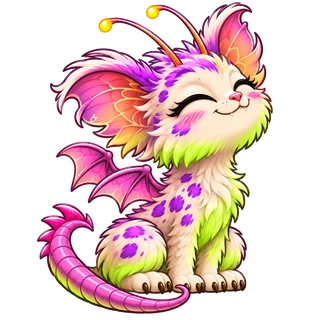
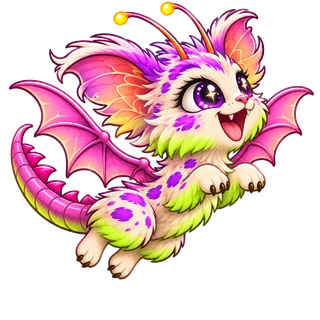
Pet: new happy-2 jump picture
Claude-Session: https://claude.ai/code/session_01PGxfpcX8yQ2dVm6AUd14bJ

diff --git a/index.html b/index.html
@@ -18,7 +18,7 @@
   <link href="https://fonts.googleapis.com/css2?family=Lilita+One&display=swap" rel="stylesheet">
   <meta property="og:image" content="assets/logo/share.jpg">
   <meta name="twitter:card" content="summary_large_image">
-  <link rel="stylesheet" href="css/style.css?v=20261121n">
+  <link rel="stylesheet" href="css/style.css?v=20261121o">
 </head>
 <body>
   <!-- ===== Loading screen (removed when the game has started) ===== -->
@@ -614,44 +614,44 @@
   <div id="tipCard" hidden role="status"></div>
   <div id="tutBubble" hidden role="dialog" aria-label="Guided start"></div>
   <!-- Game code, split by section. Files share one global scope and must load in this order. -->
-  <script src="js/00-i18n.js?v=20261121n"></script>
-  <script src="js/i18n-es.js?v=20261121n"></script>
-  <script src="js/i18n-es-2.js?v=20261121n"></script>
-  <script src="js/i18n-es-3.js?v=20261121n"></script>
-  <script src="js/00-phone.js?v=20261121n"></script>
-  <script src="js/01-core.js?v=20261121n"></script>
-  <script src="js/01-tabs.js?v=20261121n"></script>
-  <script src="js/02-income.js?v=20261121n"></script>
-  <script src="js/03-casino.js?v=20261121n"></script>
-  <script src="js/04-investing.js?v=20261121n"></script>
-  <script src="js/05-settings.js?v=20261121n"></script>
-  <script src="js/06-casino-cards.js?v=20261121n"></script>
-  <script src="js/07-boosters.js?v=20261121n"></script>
-  <script src="js/08-sky-climb.js?v=20261121n"></script>
-  <script src="js/09-special.js?v=20261121n"></script>
-  <script src="js/10-plinko.js?v=20261121n"></script>
-  <script src="js/11-cosmetics.js?v=20261121n"></script>
-  <script src="js/12-logistics.js?v=20261121n"></script>
-  <script src="js/13-live-trading.js?v=20261121n"></script>
-  <script src="js/14-world-map.js?v=20261121n"></script>
-  <script src="js/15-achievements.js?v=20261121n"></script>
-  <script src="js/16-prestige.js?v=20261121n"></script>
-  <script src="js/17-wiki.js?v=20261121n"></script>
-  <script src="js/18-art.js?v=20261121n"></script>
-  <script src="js/19-science.js?v=20261121n"></script>
-  <script src="js/20-tips.js?v=20261121n"></script>
-  <script src="js/21-clock.js?v=20261121n"></script>
-  <script src="js/22-main-menu.js?v=20261121n"></script>
-  <script src="js/23-minigames.js?v=20261121n"></script>
-  <script src="js/24-genetics.js?v=20261121n"></script>
-  <script src="js/25-baccarat.js?v=20261121n"></script>
-  <script src="js/26-slot-engine.js?v=20261121n"></script>
-  <script src="js/27-gene-cascade.js?v=20261121n"></script>
-  <script src="js/28-freight-shares.js?v=20261121n"></script>
-  <script src="js/29-cloud.js?v=20261121n"></script>
-  <script src="js/30-shooter.js?v=20261121n"></script>
-  <script src="js/31-shooter-art.js?v=20261121n"></script>
-  <script src="js/32-shooter-game.js?v=20261121n"></script>
-  <script src="js/33-pet.js?v=20261121n"></script>
+  <script src="js/00-i18n.js?v=20261121o"></script>
+  <script src="js/i18n-es.js?v=20261121o"></script>
+  <script src="js/i18n-es-2.js?v=20261121o"></script>
+  <script src="js/i18n-es-3.js?v=20261121o"></script>
+  <script src="js/00-phone.js?v=20261121o"></script>
+  <script src="js/01-core.js?v=20261121o"></script>
+  <script src="js/01-tabs.js?v=20261121o"></script>
+  <script src="js/02-income.js?v=20261121o"></script>
+  <script src="js/03-casino.js?v=20261121o"></script>
+  <script src="js/04-investing.js?v=20261121o"></script>
+  <script src="js/05-settings.js?v=20261121o"></script>
+  <script src="js/06-casino-cards.js?v=20261121o"></script>
+  <script src="js/07-boosters.js?v=20261121o"></script>
+  <script src="js/08-sky-climb.js?v=20261121o"></script>
+  <script src="js/09-special.js?v=20261121o"></script>
+  <script src="js/10-plinko.js?v=20261121o"></script>
+  <script src="js/11-cosmetics.js?v=20261121o"></script>
+  <script src="js/12-logistics.js?v=20261121o"></script>
+  <script src="js/13-live-trading.js?v=20261121o"></script>
+  <script src="js/14-world-map.js?v=20261121o"></script>
+  <script src="js/15-achievements.js?v=20261121o"></script>
+  <script src="js/16-prestige.js?v=20261121o"></script>
+  <script src="js/17-wiki.js?v=20261121o"></script>
+  <script src="js/18-art.js?v=20261121o"></script>
+  <script src="js/19-science.js?v=20261121o"></script>
+  <script src="js/20-tips.js?v=20261121o"></script>
+  <script src="js/21-clock.js?v=20261121o"></script>
+  <script src="js/22-main-menu.js?v=20261121o"></script>
+  <script src="js/23-minigames.js?v=20261121o"></script>
+  <script src="js/24-genetics.js?v=20261121o"></script>
+  <script src="js/25-baccarat.js?v=20261121o"></script>
+  <script src="js/26-slot-engine.js?v=20261121o"></script>
+  <script src="js/27-gene-cascade.js?v=20261121o"></script>
+  <script src="js/28-freight-shares.js?v=20261121o"></script>
+  <script src="js/29-cloud.js?v=20261121o"></script>
+  <script src="js/30-shooter.js?v=20261121o"></script>
+  <script src="js/31-shooter-art.js?v=20261121o"></script>
+  <script src="js/32-shooter-game.js?v=20261121o"></script>
+  <script src="js/33-pet.js?v=20261121o"></script>
 </body>
 </html>

diff --git a/js/33-pet.js b/js/33-pet.js
@@ -13,11 +13,12 @@ if (state.pet && state.pet.owned) {
 }
 const petOwned = () => !!(state.pet && state.pet.owned);
 const PET_WAKE_BEFORE = 10;          // wakes up this many seconds before the drink is ready
-const PET_TAP_MS = 100;              // one tap every 0.1 s = 10 clicks / sec
+const PET_TAP_MS = 100;
+const PET_V = "2";                   // bump when a pet picture changes (browser cache)              // one tap every 0.1 s = 10 clicks / sec
 // where the feet are in each frame (part of the picture height), so every pose stands on the same line
-const PET_FOOT = { "idle-1": 0.982, "idle-2": 0.982, "tap-1": 0.985, "tap-2": 0.984, "drink-1": 0.982, "drink-2": 0.982, "happy-1": 0.98, "happy-2": 0.98,
+const PET_FOOT = { "idle-1": 0.982, "idle-2": 0.982, "tap-1": 0.985, "tap-2": 0.984, "drink-1": 0.982, "drink-2": 0.982, "happy-1": 0.98, "happy-2": 0.874,
   "sleep-1": 0.869, "sleep-2": 0.868, "wake": 0.985, "walk-1": 0.909, "walk-2": 0.906, "walk-3": 0.909, "walk-4": 0.892 };
-Object.keys(PET_FOOT).forEach(k => { const im = new Image(); im.src = `assets/pet/${k}.webp`; });   // preload
+Object.keys(PET_FOOT).forEach(k => { const im = new Image(); im.src = `assets/pet/${k}.webp?v=${PET_V}`; });   // preload
 
 const P_ = { mode: "idle", x: -1, tx: 0, face: -1, t: 0, until: 0, frame: "", flip: false, next: null, raf: 0, last: 0,
   tapAcc: 0, tapOn: false, petStreak: 0, petLast: 0, layout: null, layoutAt: 0, zAt: 0, jump: 0, blinkAt: 0 };
@@ -44,7 +45,7 @@ function petLayout(now) {
 }
 function petShow(frame, flip, dy = 0) {
   const L = P_.layout, s = L.s;
-  if (frame !== P_.frame) { petImg.src = `assets/pet/${frame}.webp`; P_.frame = frame; }
+  if (frame !== P_.frame) { petImg.src = `assets/pet/${frame}.webp?v=${PET_V}`; P_.frame = frame; }
   const y = L.floor - s * PET_FOOT[frame] + dy;
   petEl.style.width = petEl.style.height = s + "px";
   petEl.style.transform = `translate(${Math.round(P_.x - s / 2)}px, ${Math.round(y)}px)`;
